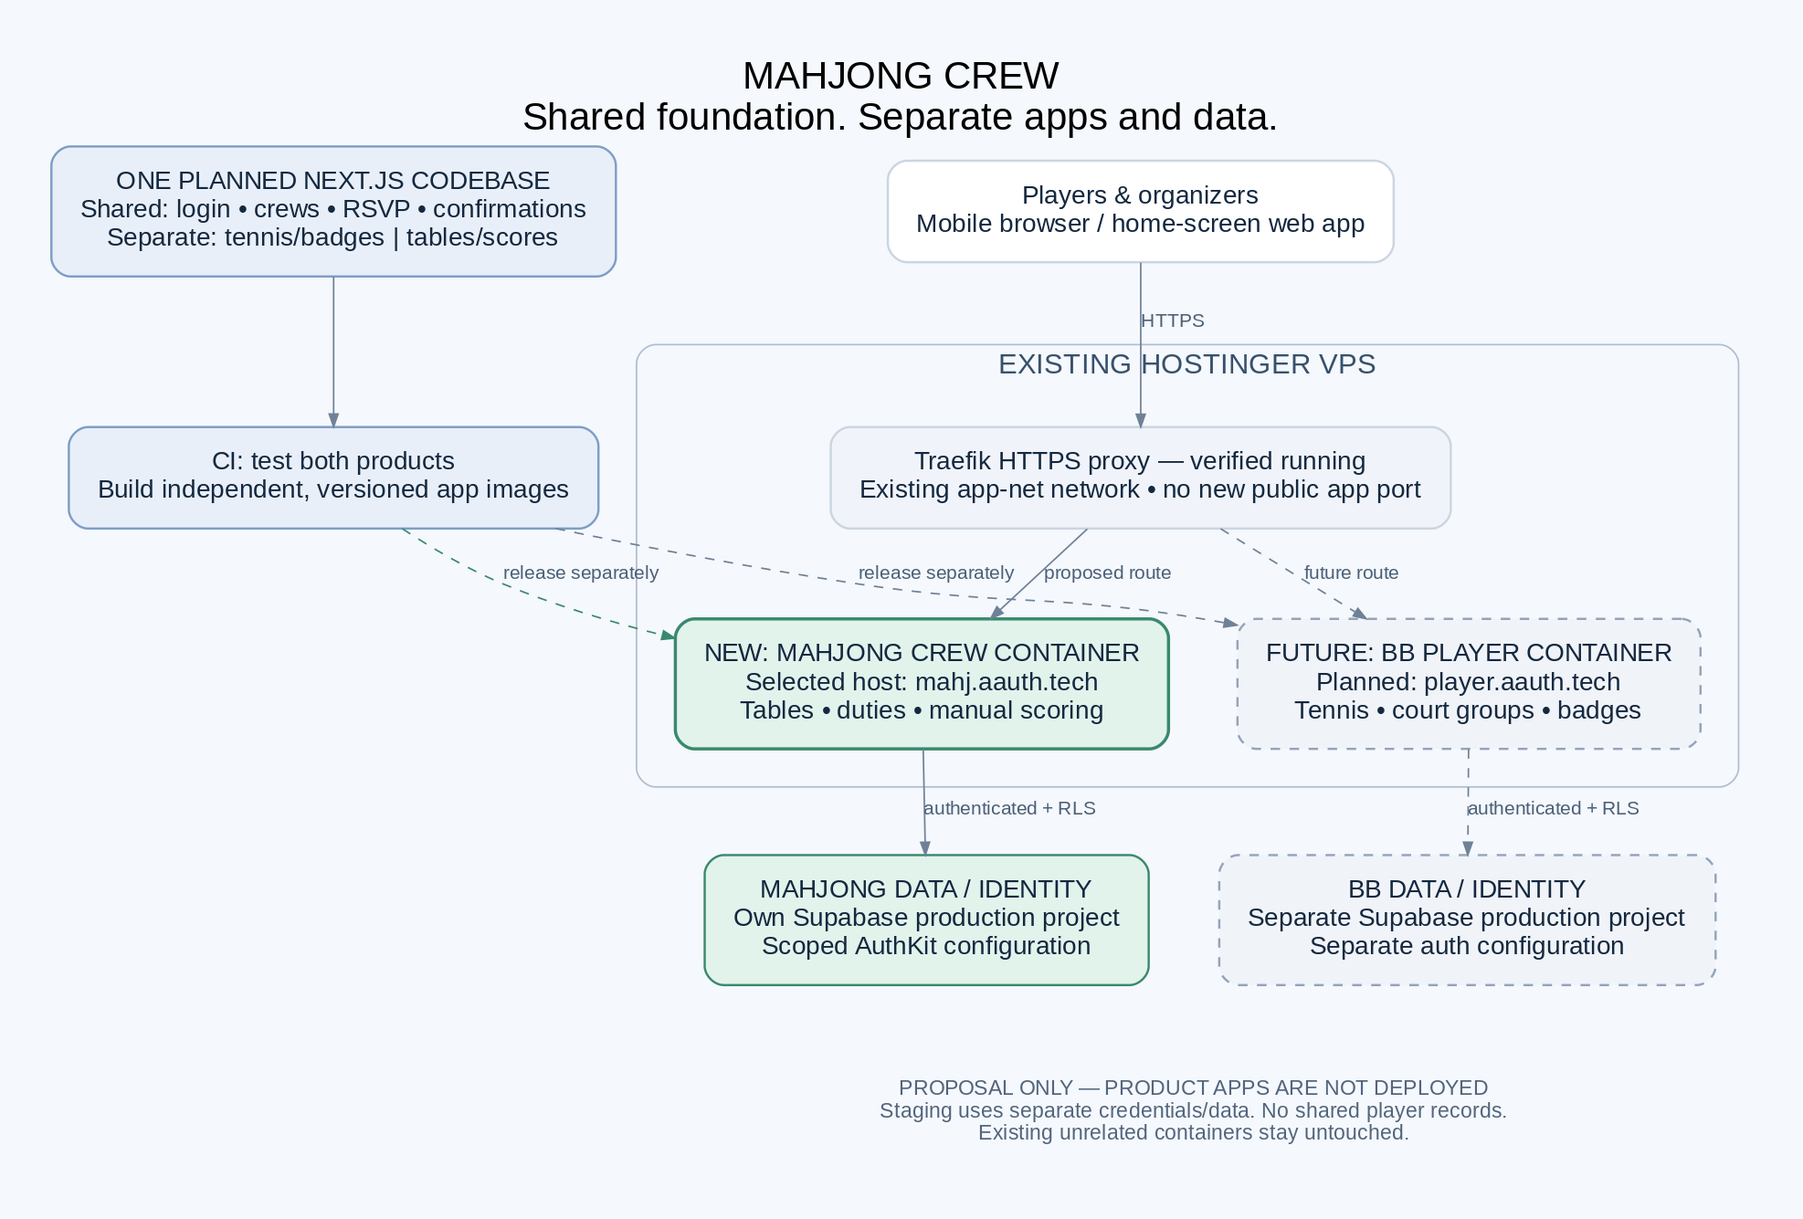
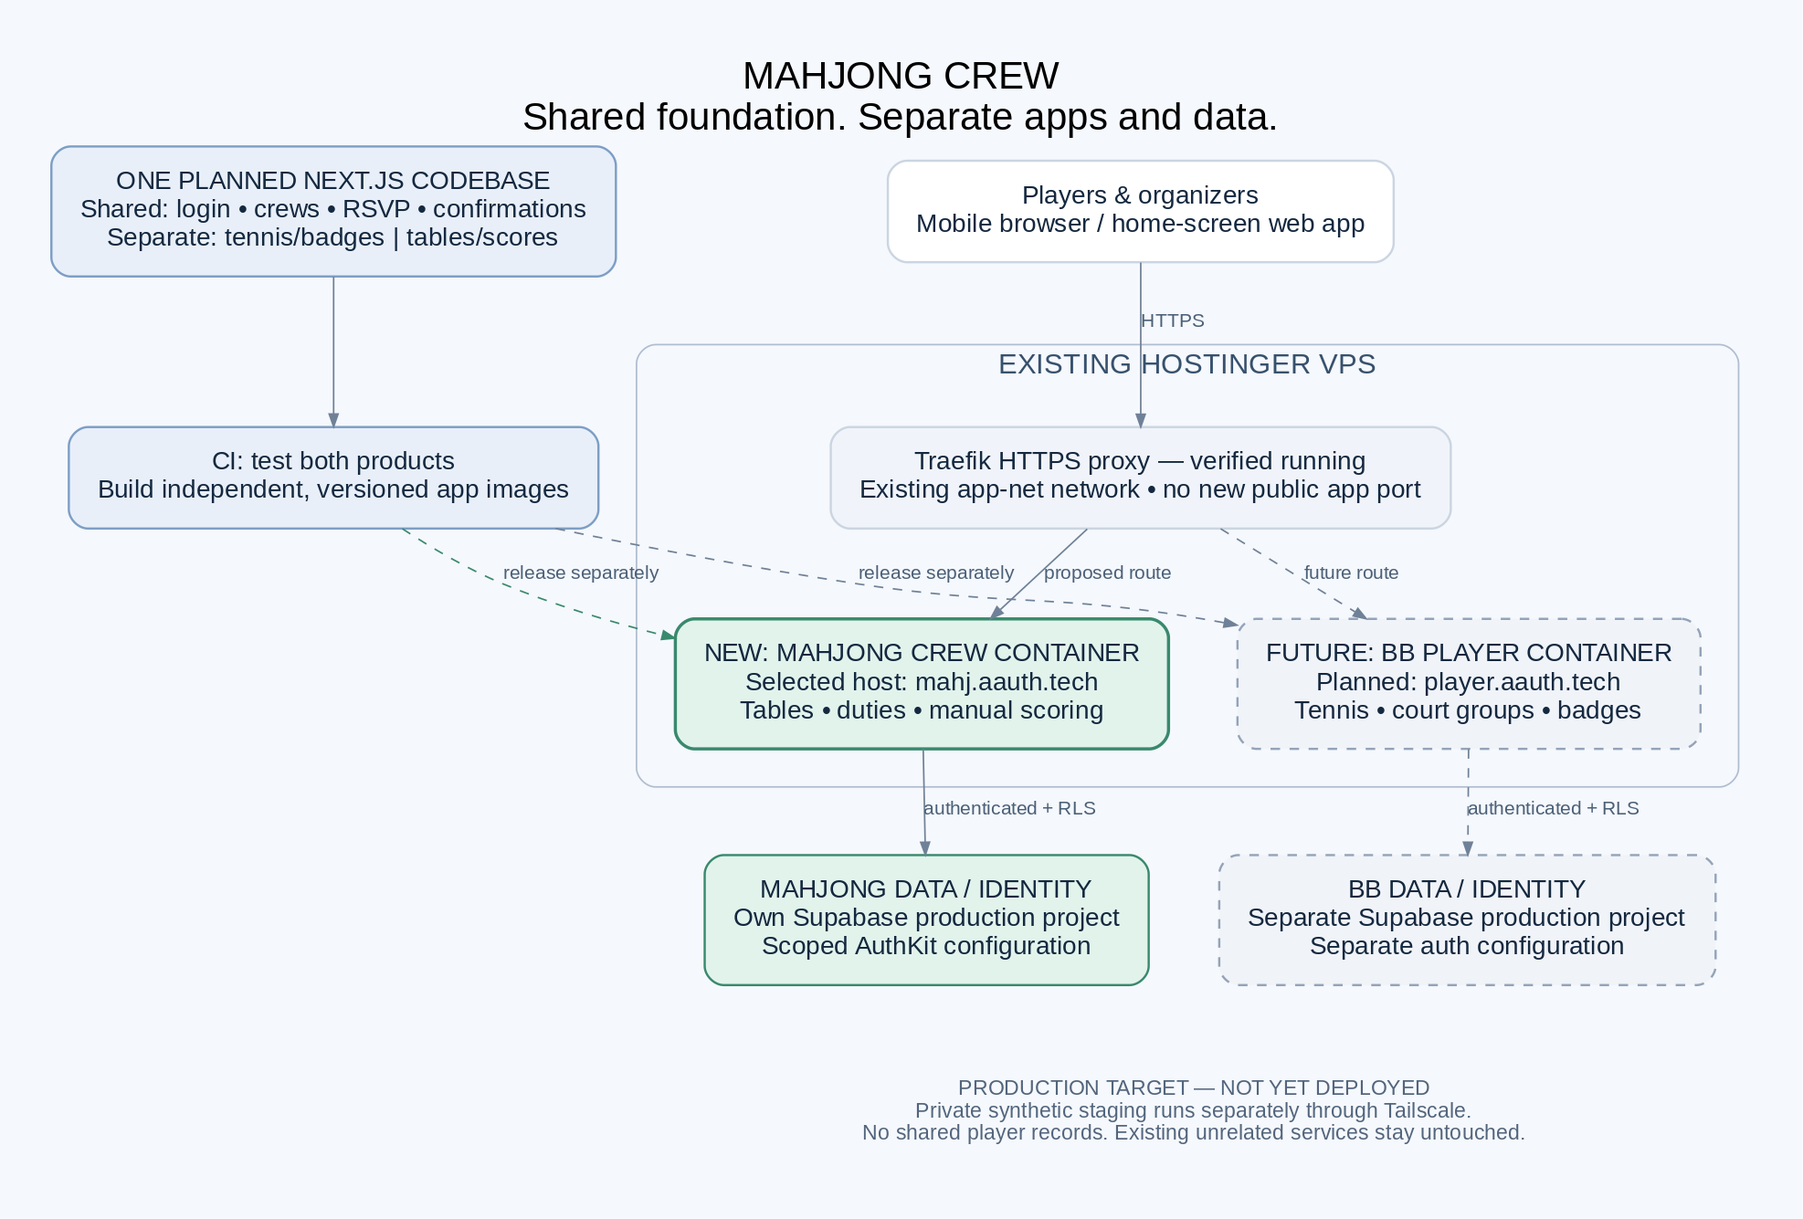
Document verified private staging and separate phone review networks

Changed region(s): [[0.4944, 0.8906, 0.8343, 0.9521]]

diff --git a/docs/evals/2026-10-16-private-staging.md b/docs/evals/2026-10-16-private-staging.md
@@ -1,0 +1,71 @@
+# Private staging verification — 2026-10-16
+
+## Scope and approval
+
+The user approved the silver/grey Mahjong prototype, then explicitly requested Hostinger staging through the reviewer's existing Tailscale node. After the owner's phone could not open the earlier preview, a second private entry point was added on the owner's main tailnet. No production database, identity provider, public DNS, public app route, network ACL, or global Tailscale HTTPS setting was changed.
+
+Actual tailnet hostnames/IPs are intentionally omitted from this public repository. Private URLs are in the Cloudroom conversation.
+
+## Release and runtime
+
+- Application source: `2e6ddc1` (previous release `fa54bf5` retained).
+- Image: `mahjong-crew-staging:2e6ddc1`.
+- Image ID: `sha256:d6e5c9ec3c6fe7057faa2431d3491a588b0685b2653aa841cc025af10aea16ab`.
+- Pinned Node base: `node@sha256:c3de60bf2f9dd0ac6370e6117950ff62d6e339527e7472301c9c78a017978392`.
+- Dedicated Compose project: `/docker/mahjong-crew-staging`; no other app container was redeployed.
+- Host architecture is x86_64; builder is ARM64. The app was compiled off-host; locked production dependencies were installed for the target architecture during lightweight image assembly.
+- Container healthy; host HTTP is bound only to `127.0.0.1:3012`, not a public interface.
+- Non-root UID/GID 1000, read-only root filesystem, temporary/cache tmpfs mounts, dropped capabilities, no-new-privileges, 512 MiB memory cap, 0.5 CPU, 128 PID limit, and rotated logs.
+- Observed after checks: about **40.6 MiB** app memory and **0%** instantaneous CPU. Available host memory remained about 2.1 GiB. These are point-in-time measurements, not load-test capacity guarantees.
+
+## Before/after infrastructure checks
+
+| Check | Result |
+| --- | --- |
+| Existing Docker container IDs | All 12 baseline containers unchanged. Only the new staging app was created/recreated. |
+| Existing review-node Serve configuration | Deep JSON comparison confirmed every old TCP/web handler unchanged. Only new HTTPS 7443 → loopback app added. |
+| Existing main-node Serve configuration | Deep JSON comparison confirmed old HTTP 80 dashboard/decks handlers unchanged. Only new HTTP 8080 → same loopback app added. |
+| Public exposure | No Traefik route, app-net attachment, public app port, DNS change, or Tailscale Funnel. Both Serve entries report tailnet-only access. |
+| Review-node HTTPS | HTTP 200 through the actual Serve TLS path, certificate validation successful (`ssl_verify_result=0`). Tested using that node's Tailscale context, not the reviewer's personal device. |
+| Owner's network | Main entry point and all tested assets reachable from the paired Mac over its own tailnet. |
+| Server logs | Clean Next.js startup; no runtime errors in the inspected tail. |
+
+Serve configuration snapshots and release artifacts were saved inside the server's staging project for rollback; they are not committed here.
+
+### Issues found and resolved
+
+1. Docker's `internal: true` bridge accepted a loopback port binding in configuration but did not publish it at runtime: container health passed, host HTTP failed. Replaced only this new project's network with a dedicated ordinary bridge and verified the actual loopback listener. Outbound traffic is permitted, while app ingress remains loopback-only; the app is not on the public proxy network.
+2. The initial `localhost` Cloudroom preview was Mac-forwarded, not directly accessible on a phone. The review node also belongs to a different tailnet from the owner: the Mac could not resolve/reach its private hostname. Kept that review endpoint and added a separate main-network entry point instead of widening ACLs or making staging public.
+3. Main-network HTTPS is not configured. Used its existing HTTP-over-encrypted-Tailscale pattern without enabling global certificate settings. Switched tab-local record IDs from HTTPS-only `crypto.randomUUID` to `crypto.getRandomValues`; a regression test simulates a browser with no `randomUUID`.
+
+## Eleven HTTP cases from the owner's paired Mac
+
+At approximately 23:05 UTC, a single sequential pass completed in **1.28 seconds** total. It verified:
+
+1. `GET /` → 200, correct Mahjong title/copy, fictional-data notice, and `noindex` metadata.
+2. React/vendor JavaScript chunk → 200, nonempty.
+3. Shared JavaScript chunk → 200, nonempty.
+4. Application page JavaScript → 200, nonempty.
+5. Main app JavaScript → 200, nonempty.
+6. Polyfill JavaScript → 200, nonempty.
+7. Webpack runtime JavaScript → 200, nonempty.
+8. Compiled stylesheet → 200, nonempty.
+9. Generated SVG icon → 200, nonempty.
+10. Unknown application path → 404.
+11. `HEAD /` → 200.
+
+This verifies the real private client path and compiled asset delivery. It is not a concurrent-user performance benchmark.
+
+## Application checks
+
+- Fresh `npm ci`, ESLint, generated route types + TypeScript, all **16 unit tests**, optimized production build, and full npm audit passed; audit reported zero vulnerabilities.
+- Interactive Chromium walkthrough verified invitations/cancellation, poll validation and multiple candidate times, creating a two-table game, a recorded hand, locked scored-session rules, a new session with different card/profile, preserved earlier results, and separate incomplete tables.
+- Desktop and 390 px mobile renders were checked against the deployed app through a private SSH tunnel. Earlier responsive overflow checks also covered 320, 360, 768, 1024, and 1440 px widths.
+- Mobile fixed navigation, reset scroll on navigation, modal focus/Escape, and responsive form widths were checked. This is not an actual iPhone hardware or full accessibility audit.
+- The included GitHub workflow has not been run remotely in this task; the equivalent commands passed locally.
+
+## Remaining boundaries
+
+The reviewer's own phone/device access still depends on being connected to the correct Tailscale network and its existing policy permitting TCP 7443. The owner's phone must use the main-network URL with Tailscale connected and TCP 8080 permitted. No claim is made that either physical phone was directly tested.
+
+All game interactions remain synthetic and tab-local. This deployment establishes neither application authentication nor secure real-player persistence. Refresh clears changes. Production `mahj.aauth.tech` and any public staging hostname remain unconfigured.

diff --git a/deploy/staging/README.md b/deploy/staging/README.md
@@ -7,8 +7,9 @@ This deployment is a synthetic-data design preview, **not** the production club 
 - Dedicated Hostinger Compose project: `/docker/mahjong-crew-staging`.
 - App HTTP is published **only** on host loopback `127.0.0.1:3012`.
 - Runtime uses a dedicated Docker bridge, not the shared public proxy network. Traefik discovery is explicitly disabled. The bridge allows outbound traffic; inbound application access is published only on host loopback. Docker's `internal: true` suppressed loopback port publishing on this host, so it is not used.
-- Add a separate **Tailscale Serve HTTPS port 7443** on the existing authorized review node, proxying to `http://127.0.0.1:3012`. Preserve its other routes. Do not use Tailscale Funnel, reset Serve configuration, or publish the app port on `0.0.0.0`.
-- The private URL uses that node's existing `*.ts.net` hostname and `:7443`. The actual review URL is shared privately, not committed to this public repository.
+- A separate **Tailscale Serve HTTPS port 7443** on the existing authorized review node proxies to `http://127.0.0.1:3012`. Preserve its other routes. Do not use Tailscale Funnel, reset Serve configuration, or publish the app port on `0.0.0.0`.
+- A second **private HTTP port 8080** on the owner's main Tailscale node points to the same loopback app. The review node and main node belong to different tailnets; DNS/access do not automatically cross them. Main-network HTTPS is not configured, so this uses its existing HTTP-over-encrypted-Tailscale pattern without enabling global HTTPS settings. No credentials or real records are collected.
+- Private URLs use the relevant node's existing `*.ts.net` hostname with the appropriate scheme/port. Actual review URLs are shared privately, not committed to this public repository.
 - No public DNS, `mahj.aauth.tech`, production credentials, or existing application containers are changed.
 
 ## Prepare and deploy a release
@@ -23,7 +24,7 @@ This requires explicit deployment approval and authorized VPS/Tailscale access. 
 6. Verify the container is healthy, HTTP returns 200 on `127.0.0.1:3012`, static scripts/styles load, and port binding is loopback-only. Recheck memory headroom.
 7. Back up the review node's current `tailscale serve status --json`. Ensure HTTPS port 7443 is unused, then add only `tailscale serve --bg --https=7443 http://127.0.0.1:3012` inside that node's existing Tailscale context. Never reset or replace the whole configuration.
 8. Compare before/after configurations to confirm every pre-existing TCP listener, web handler, and Funnel setting is unchanged. The new route must say **tailnet only**, with no Funnel enabled.
-9. Test the actual HTTPS path from an authorized tailnet device. Check core interactions in a real browser and send the private URL to the reviewer. Server-side health alone does not establish that a particular person's device/ACL can reach the node.
+9. Test the actual HTTPS path and core interactions. For the main-network entry point, back up its Serve configuration separately, confirm HTTP port 8080 is unused, and add only `tailscale serve --bg --http=8080 http://127.0.0.1:3012` in that node's context. Compare its old routes afterward too. Verify from an authorized client on each relevant network where available; server-side health alone does not establish that a particular person's device/ACL can reach the node. The owner entry point was tested from the paired Mac; the HTTPS path was tested through the review node's Tailscale context, not the reviewer's phone.
 
 ## Runtime safeguards
 
@@ -31,6 +32,6 @@ The app runs as non-root, with a read-only root filesystem, bounded temporary/ca
 
 ## Rollback
 
-Keep the previous image and release directory. For an update, restore the previous exact `MAHJ_STAGING_IMAGE` value and recreate **only this Compose project**. On a first deployment, stopping this project's app removes the new service without disturbing other apps. To remove the review endpoint, disable **only the newly added HTTPS 7443 Serve listener** using the installed Tailscale CLI; never run `tailscale serve reset`. There is no database to migrate or restore for this prototype.
+Keep the previous image and release directory. For an update, restore the previous exact `MAHJ_STAGING_IMAGE` value and recreate **only this Compose project**. On a first deployment, stopping this project's app removes the new service without disturbing other apps. To remove the review endpoint, disable **only the newly added HTTPS 7443 Serve listener** using the installed Tailscale CLI; never run `tailscale serve reset`. Disable only the added HTTP 8080 listener in the main node's separate context if removing that entry point. There is no database to migrate or restore for this prototype.
 
-If a reviewer cannot connect, verify their Tailscale connection and that their tailnet policy permits this node on TCP 7443. Do not silently widen network policy or make the prototype public as a workaround.
+If a reviewer cannot connect, verify their Tailscale connection, the correct tailnet/URL, and that their policy permits the relevant node on TCP 7443 or 8080. A Mac-local `localhost` preview URL cannot be opened directly from a phone. Synthetic record IDs use `crypto.getRandomValues`, so private HTTP review does not depend on HTTPS-only `randomUUID`. Do not silently widen network policy or make the prototype public as a workaround.

diff --git a/docs/PROTOTYPE.md b/docs/PROTOTYPE.md
@@ -7,6 +7,12 @@
 - American Mahjong is the initial default. Different tables and sessions can select their own card year and American house-rule profile.
 - Selected eventual production hostname: `mahj.aauth.tech`. This prototype does not configure or publish that hostname.
 
+## Review locations
+
+The synthetic prototype is deployed in its own Hostinger staging container. Private Tailscale entry points are available through the existing review node on HTTPS 7443 and the owner's main network on HTTP 8080. The latter uses the existing HTTP-over-encrypted-Tailscale pattern; the main tailnet's HTTPS feature was not enabled or changed. Actual private URLs are shared in the Cloudroom thread, not this public repository. See the [staging runbook](../deploy/staging/README.md) and [deployment verification](evals/2026-10-16-private-staging.md).
+
+A phone must run Tailscale on the network owning the entry point it uses. The earlier Cloudroom `localhost` preview runs through the Mac and is not a direct phone or shareable review URL. Different tailnets do not automatically share node DNS or access.
+
 ## Run locally
 
 Requires Node **22.18 or newer** (the tests use Node's built-in TypeScript stripping) and npm.
@@ -53,7 +59,7 @@ All fixtures are synthetic. The sample schedule uses October 2026 dates and `Ame
 
 American hand values are manually entered whole numbers. The NMJL year is metadata only; the prototype contains no commercial card content, hand validation, Chinese scoring, settlements, cross-ruleset leaderboards, or content licence claims. “House rules” and notes are descriptive, not an executable scoring calculator.
 
-BB Player's tennis/badge experience is **not** implemented or replaced. This first Mahjong UI uses the agreed common architectural direction but does not yet implement independent product builds, WorkOS, Supabase, Docker deployment, DNS, or TLS. Those remain separately gated work in the [recommendation](MAHJONG-CREW-RECOMMENDATION.md).
+BB Player's tennis/badge experience is **not** implemented or replaced. This first Mahjong UI uses the agreed common architectural direction, with a dedicated staging Docker image/container and private Tailscale access. Independent product builds, WorkOS, Supabase, public DNS, and production deployment remain separately gated work in the [recommendation](MAHJONG-CREW-RECOMMENDATION.md).
 
 ## Verification
 
@@ -68,8 +74,9 @@ npm audit --audit-level=low
 Initial verification completed on 2026-10-16:
 
 - ESLint and TypeScript pass.
-- All **15 unit tests** pass: fresh fixtures, response/seat separation, unavailable without a reason, slot validation, explicit/idempotent acceptance, full capacity, overlapping invitations, cancellation, incomplete tables, manual point validation, duplicate hand IDs, draws, per-table rules, preserved prior sessions, and time-zone-independent labels.
+- All **16 unit tests** pass, including ID generation without HTTPS-only `randomUUID`, plus: fresh fixtures, response/seat separation, unavailable without a reason, slot validation, explicit/idempotent acceptance, full capacity, overlapping invitations, cancellation, incomplete tables, manual point validation, duplicate hand IDs, draws, per-table rules, preserved prior sessions, and time-zone-independent labels.
 - Optimized production build passes with two build workers.
+- The included GitHub checks workflow runs lint, type generation/typecheck, unit tests, build, and audit; it has not been executed remotely as part of this task.
 - npm audit reports **zero vulnerabilities**, including development dependencies. ESLint 10 + TypeScript/React Hooks linting are used instead of the Next ESLint preset because its current transitive glob dependency has an unpatched advisory. No runtime UI library was added.
 - Real Chromium walkthrough covers seat acceptance/cancellation, invalid and valid poll responses, creating a two-table game, manual score entry and rule locking, a new session with different rules, preserved previous results, desktop/mobile navigation, native dialog focus/Escape, and responsive forms. These are recorded interactive checks, not a committed automated browser test suite.
 - Responsive overflow checks cover 320, 360, 390, 768, 1024, and 1440 px widths. Mobile QA caught and fixed a fixed-navigation/backdrop-filter interaction and navigation retaining the previous screen's scroll position.

diff --git a/docs/MAHJONG-CREW-RECOMMENDATION.md b/docs/MAHJONG-CREW-RECOMMENDATION.md
@@ -1,6 +1,6 @@
 # Mahjong Crew — BB Player reuse and Hostinger recommendation
 
-**Status: a silver/grey synthetic-data prototype is approved and implemented locally. Auth, persistence, independent product builds, and Hostinger deployment remain proposals, not implemented integrations.** See the [prototype guide](PROTOTYPE.md).
+**Status: the approved silver/grey synthetic-data prototype is implemented and deployed in an isolated private Hostinger staging container with Tailscale access. Auth, persistence, independent product builds, public DNS, and production deployment remain unimplemented.** See the [prototype guide](PROTOTYPE.md) and [staging verification](evals/2026-10-16-private-staging.md).
 
 **Confirmed user choices:** American Mahjong as the initial default; multiple tables and matches with card year, house rules, and scoring convention selected per game session; production hostname `mahj.aauth.tech`; a silver/grey, sleek, Luma-inspired prototype with simple navigation. Preserve historical rules/results and keep incompatible scoring systems separate in rankings. Additional Mahjong variants remain future scope. These product choices do not themselves authorize infrastructure changes or establish that DNS/TLS or deployment is configured.
 
@@ -24,7 +24,7 @@ Recommended priorities:
 - **BB foundation:** [README](../README.md), [product specification](PRODUCT-SPEC.md), and [development plan](DEVELOPMENT.md). These remain the canonical BB requirements; this proposal does not change them.
 - **Hostinger, read-only snapshot on 2026-10-16 at approximately 22:08 UTC:** Docker is running, Traefik serves HTTPS on ports 80/443, and existing apps use its external `app-net` network with the `letsencrypt` resolver. The host reported about 7.8 GiB RAM, 2.1 GiB available, 45 GB free disk, and no swap. This is a point-in-time capacity check, not a load test or uptime guarantee.
 - No running BB Player application container was found in that inventory. A stopped, BB-named backup utility is not an application deployment and was not treated as reusable app code. Its contents were not inspected.
-- No containers, databases, DNS, auth clients, or existing production services were changed. No messages were sent.
+- During the original review, no containers, databases, DNS, auth clients, or existing production services were changed. Subsequently, the user approved private staging: a new isolated application container and narrowly scoped Tailscale Serve entry points were added. Existing routes/containers, databases, public DNS, and auth clients were left unchanged; no player messages were sent.
 
 ## 3. Fit between the supplied flows and BB Player
 
@@ -148,7 +148,7 @@ Use separately scoped AuthKit clients/environments where supported, product-spec
 
 ![Proposed independent deployments from a common codebase](assets/mahjong-deployment.png)
 
-*Proposed application topology. Only the existing reverse proxy was verified as running; the product boxes are not deployed applications. [Editable diagram source](assets/mahjong-deployment.dot).*
+*Proposed production topology, not the private staging topology. Production product boxes are not deployed; synthetic staging runs separately through Tailscale. [Editable diagram source](assets/mahjong-deployment.dot).*
 
 | Item | Recommendation |
 | --- | --- |

diff --git a/README.md b/README.md
@@ -10,7 +10,7 @@ A friendly clubhouse for routine Monday-night tennis: availability, groups of fo
 
 ## Current state
 
-This repository contains the agreed BB Player specification and development plan, plus a runnable **Mahjong Crew design prototype**. The prototype uses fictional players and in-memory interactions; refreshing clears changes. BB Player itself is not implemented. Neither product has configured login, a connected database, a Hostinger application deployment, or DNS changes from this work.
+This repository contains the agreed BB Player specification and development plan, plus a runnable **Mahjong Crew design prototype**, now deployed to a separate **private Hostinger staging container** for Tailscale review. The prototype uses fictional players and in-memory interactions; refreshing clears changes. Private review URLs are shared in the Cloudroom thread, not this public repository. BB Player itself is not implemented. Neither product has configured login, a connected database, a production deployment, or public DNS changes from this work.
 
 ### Try the Mahjong prototype
 
